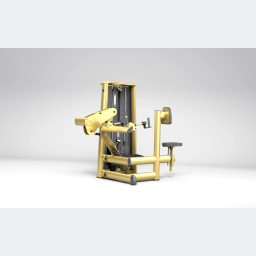
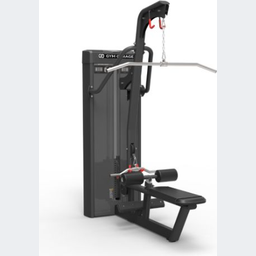
Replace two machines with Gym Garage models

diff --git a/api/machines.js b/api/machines.js
@@ -22,6 +22,12 @@ const GENRE = {
   pilates: "ピラティス",
 };
 
+/** シート上の商品を差し替えても、配置済みデータのIDは維持する。 */
+const STABLE_NEW_IDS = {
+  "GYM GARAGE ヒップスラスト GG-C12015": "new_standing_abductor",
+  "GYM GARAGE プルダウン／シーテッドロウ GG-C12032": "new_seated_row_machine_dual_row系",
+};
+
 function parseCsv(text) {
   const rows = [];
   let i = 0;
@@ -113,13 +119,14 @@ function filesFor(id, photo) {
 }
 
 function slugId(name, used) {
-  const base =
-    "new_" +
-    String(name)
-      .toLowerCase()
-      .replace(/[^a-z0-9\u3040-\u30ff\u4e00-\u9faf]+/gi, "_")
-      .replace(/^_+|_+$/g, "")
-      .slice(0, 48);
+  const stableId = STABLE_NEW_IDS[String(name || "").trim()];
+  const base = stableId ||
+    ("new_" +
+      String(name)
+        .toLowerCase()
+        .replace(/[^a-z0-9\u3040-\u30ff\u4e00-\u9faf]+/gi, "_")
+        .replace(/^_+|_+$/g, "")
+        .slice(0, 48));
   let id = base || "new_item";
   let n = 2;
   while (used.has(id)) {
@@ -171,6 +178,7 @@ function genreNew(name, zone, planTarget = "") {
   if (/curve|powermill|climb|stepmill|tread|cross trainer|integrity\+|有酸素/.test(s)) {
     return "cardio";
   }
+  if (/gym garage|gg-c12015|gg-c12032/.test(s)) return "stack";
   if (
     /select |selectorized|insignia|abdominal crunch|assist dip|3d multi-abductor|ウェイトスタック|hammer strength select|hoist|roc-it|cybex ion|matrix.?ultra|prone leg/.test(
       s

diff --git a/api/displayNames.js b/api/displayNames.js
@@ -40,6 +40,8 @@ export const NEW_DISPLAY_NAMES = {
   "Assist Dip & Chin": "Hammer Strength　アシストディップ／チン",
   "Insignia Series Chest Press": "Life Fitness　チェストプレス（Insignia）",
   "Standing Abductor": "Life Fitness　スタンディングアブダクター",
+  "GYM GARAGE ヒップスラスト GG-C12015": "GYM GARAGE　ヒップスラスト（GG-C12015）",
+  "GYM GARAGE プルダウン／シーテッドロウ GG-C12032": "GYM GARAGE　プルダウン／シーテッドロウ（GG-C12032）",
   "SkiErg PM5 スタンド付": "Concept2　スキーエルゴ PM5（スタンド付）",
   "RowErg": "Concept2　ローイングエルゴ",
   "BikeErg": "Concept2　バイクエルゴ",
